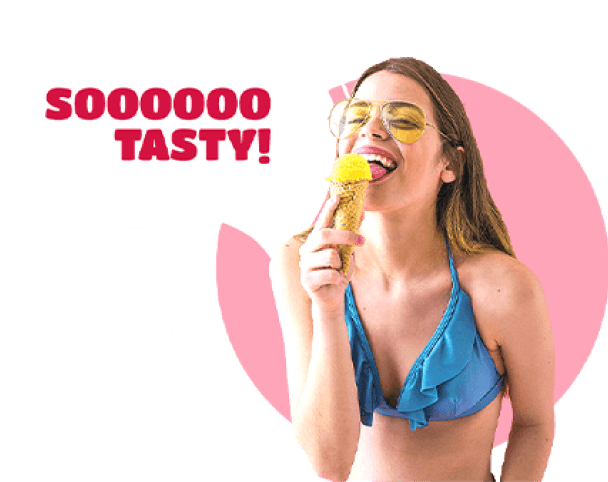
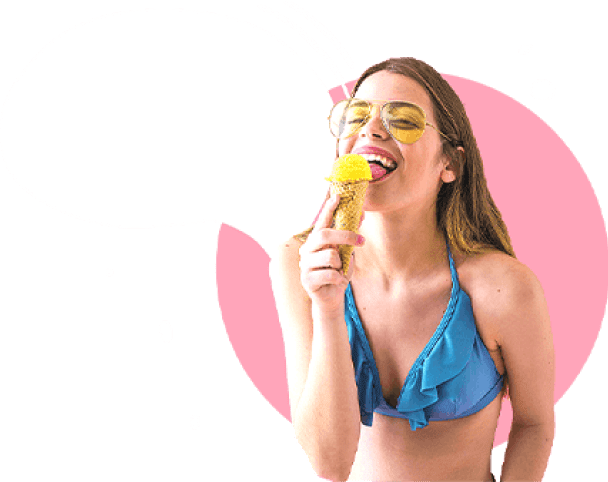
hero-desktop-done

Changed region(s): [[0.0625, 0.1556, 0.4688, 0.3423]]

diff --git a/src/sass/components/_hero.scss b/src/sass/components/_hero.scss
@@ -18,12 +18,15 @@
   @media screen and (min-width: 767.98px) {
     height: 415px;
   }
+
+  // desktop
+  @media screen and (min-width: 1279.98px) {
+    height: 664px;
+  }
 }
 
 .hero-text {
-  width: 218px;
   padding-top: 194px;
-  padding-bottom: 158px;
   position: relative;
   z-index: 3;
 
@@ -39,25 +42,65 @@
       0.04em,
       $primary-text-color
     );
+
     // tablet
     @media screen and (min-width: 767.98px) {
       width: 162px;
       font-size: 22px;
     }
+
+    // desktop
+    @media screen and (min-width: 1279.98px) {
+      width: 277px;
+      margin-bottom: 24px;
+      @include fontTitanOne(
+        $familyTitanOne,
+        38px,
+        null,
+        44px,
+        0.04em,
+        $primary-text-color
+      );
+    }
   }
 
   &--accent {
     @include fontTitanOne(null, 48px, 400, 46px, null, $accent-color, null);
+
     // tablet
     @media screen and (min-width: 767.98px) {
       @include fontTitanOne(null, 34px, null, 31px, null, null, null);
     }
+    // tablet
+    @media screen and (min-width: 1279.98px) {
+      @include fontTitanOne(null, 58px, null, 52px, 0.04em, null, null);
+    }
   }
+
   // tablet
   @media screen and (min-width: 767.98px) {
+    width: 162px;
     padding-top: 101px;
-    padding-bottom: 0px;
-    font-size: 22px;
+  }
+
+  // desktop
+  @media screen and (min-width: 1279.98px) {
+    width: 277px;
+    padding-top: 147px;
+  }
+}
+
+.hero-btn {
+  display: flex;
+  &__item {
+    &:not(:last-child) {
+      margin-right: 8px;
+
+      // desktop
+      @media screen and (min-width: 1279.98px) {
+        margin-right: 12px;
+      }
+    }
   }
 }
 
@@ -73,6 +116,11 @@
     right: 50%;
   }
 
+  // tablet
+  @media screen and (min-width: 1279.98px) {
+    right: 43%;
+  }
+
   &::after {
     content: '';
     display: block;
@@ -85,12 +133,19 @@
     z-index: -1;
     border-radius: 50%;
     transform: translate(-50%, -50%);
+
     // tablet
     @media screen and (min-width: 767.98px) {
       width: 335px;
       height: 333px;
       top: 38%;
       left: 70%;
+    }
+
+    // desktop
+    @media screen and (min-width: 1279.98px) {
+      width: 534px;
+      height: 534px;
     }
   }
 }
@@ -105,6 +160,11 @@
     bottom: 16px;
     z-index: 3;
   }
+
+  // desktop
+  @media screen and (min-width: 1279.98px) {
+    bottom: 60px;
+  }
 }
 
 .hero-milk-info {
@@ -115,6 +175,13 @@
     margin-bottom: 7px;
     @include fontRegular($familyDmSans, 8px, 400, 12px, $primary-text-color);
     text-transform: none;
+
+    // desktop
+    @media screen and (min-width: 1279.98px) {
+      width: 200px;
+      margin-bottom: 20px;
+      @include fontRegular(null, 14px, null, 20px, null);
+    }
   }
 }
 
@@ -142,6 +209,12 @@
       height: 16px;
       background-color: #fff;
       border-radius: 50%;
+
+      // desktop
+      @media screen and (min-width: 1279.98px) {
+        width: 30px;
+        height: 30px;
+      }
     }
   }
 
@@ -155,15 +228,30 @@
       $accent-color,
       left
     );
+
+    // desktop
+    @media screen and (min-width: 1279.98px) {
+      @include fontTitanOne(null, 46px, null, 53px, null, null, null);
+    }
   }
 
   &__subtitle {
     @include fontRegular(null, 8px, 400, 10px, $primary-text-color, right);
+
+    @media screen and (min-width: 1279.98px) {
+      @include fontRegular(null, 14px, null, 18px, null, null);
+    }
   }
 
   // tablet
   @media screen and (min-width: 767.98px) {
     display: block;
+  }
+
+  // desktop
+  @media screen and (min-width: 1279.98px) {
+    right: 16px;
+    top: 153px;
   }
 }
 
@@ -176,10 +264,16 @@
   text-transform: uppercase;
 
   &__item {
-    width: 90px;
+    width: 75px;
     position: absolute;
     top: 25px;
-    left: 3px;
+    left: 10px;
+
+    // desktop
+    @media screen and (min-width: 1279.98px) {
+      width: 132px;
+      top: 40px;
+    }
   }
 
   &__subtitle {
@@ -192,9 +286,28 @@
       $accent-color,
       right
     );
+
+    // desktop
+    @media screen and (min-width: 1279.98px) {
+      @include fontTitanOne(
+        null,
+        23px,
+        null,
+        23px,
+        0.01em,
+        $accent-color,
+        right
+      );
+    }
   }
 
+  // tablet
   @media screen and (min-width: 767.98px) {
     display: block;
+  }
+
+  // desktop
+  @media screen and (min-width: 1279.98px) {
+    right: 16px;
   }
 }

diff --git a/src/partials/hero.html b/src/partials/hero.html
@@ -6,26 +6,39 @@
       <h1 class="hero-text__title">
         ice cream made with <span class="hero-text--accent">passion</span>
       </h1>
-      <a href="#products" class="button button--right-margin">Products</a>
-      <a href="#how_its_made" class="button button--white"> How it’s made? </a>
+      <ul class="hero-btn">
+        <li class="hero-btn__item">
+          <a href="#products" class="button button--right-margin">Products</a>
+        </li>
+        <li class="hero-btn__item">
+          <a href="#how_its_made" class="button button--white">
+            How it’s made?
+          </a>
+        </li>
+      </ul>
     </div>
 
     <!--  milk with text-content -->
     <ul class="hero-milk-list">
       <li>
         <picture>
+          <!-- tablet -->
           <source
             srcset="
               ./images/tablet/tablet-milk.png    1x,
               ./images/tablet/tablet-milk@2x.png 2x
             "
-            media="(min-width:767px)"
+            media="(max-width:1279px)"
           />
-          <img
-            src="./images/tablet/tablet-milk.png"
-            width="152"
-            alt="eco-milk"
+          <!-- desktop -->
+          <source
+            srcset="
+              ./images/desktop/deskstop-milk.png    1x,
+              ./images/desktop/deskstop-milk@2x.png 2x
+            "
+            media="(min-width:1279px)"
           />
+          <img src="./images/tablet/tablet-milk.png" alt="eco-milk" />
         </picture>
       </li>
       <li>
@@ -52,13 +65,23 @@
           "
           media="(max-width:767px)"
         />
+
         <!-- tablet -->
         <source
           srcset="
             ./images/tablet/tablet-ice-cream_hero.png    1x,
             ./images/tablet/tablet-ice-cream_hero@2x.png 2x
           "
-          media="(min-width:767px)"
+          media="(max-width:1279px)"
+        />
+
+        <!-- desktop -->
+        <source
+          srcset="
+            ./images/desktop/deskstop-ice-cream_hero.png    1x,
+            ./images/desktop/deskstop-ice-cream_hero@2x.png 2x
+          "
+          media="(min-width:1279px)"
         />
         <img src="./images/tel/tel-ice-cream_hero.png" alt="ice-cream" />
       </picture>
@@ -80,12 +103,22 @@
     <ul class="cta-img">
       <li>
         <picture>
+          <!-- tablet -->
           <source
             srcset="
               ./images/tablet/tablet-girl1-icecream.png    1x,
               ./images/tablet/tablet-girl1-icecream@2x.png 2x
             "
-            media="(min-width:767px)"
+            media="(max-width:1279px)"
+          />
+
+          <!-- desktop -->
+          <source
+            srcset="
+              ./images/desktop/deskstop-girl-icecream.png    1x,
+              ./images/desktop/deskstop-girl-icecream@2x.png 2x
+            "
+            media="(min-width:1279px)"
           />
           <img
             src="./images/tablet/tablet-girl1-icecream.png"
@@ -96,7 +129,7 @@
       <li
         class="cta-img__item animate__animated animate__tada animate__delay-1s animate__repeat-3"
       >
-        <p class="cta-img__subtitle">sooooooo tasty!</p>
+        <p class="cta-img__subtitle">soooooo tasty!</p>
       </li>
     </ul>
   </div>

diff --git a/src/sass/base/_button.scss b/src/sass/base/_button.scss
@@ -1,14 +1,13 @@
 // hero links (not <button>)
 .button {
   @include centeredFlex(inline-flex);
+  @include fontRegular(null, 8px, 400, 10px, #ffffff, null);
+  @include transition(background-color);
   height: 24px;
   padding-left: 15px;
   padding-right: 15px;
   padding-bottom: 0;
   padding-top: 0;
-  @include fontRegular(null, 8px, 400, 10px, #ffffff, null);
-  @include transition(background-color);
-
   border-radius: 20px;
   background-color: $heroButtonDarkPink;
 
@@ -25,6 +24,12 @@
   &--white:hover,
   &--white:focus {
     background-color: $btn-hover-bck;
+  }
+
+  // desktop
+  @media screen and (min-width: 1279.98px) {
+    height: 40px;
+    @include fontRegular(null, 14px, 400, 18px, null, null);
   }
 }
 
@@ -47,10 +52,22 @@
   &--hero {
     width: 18px;
     height: 18px;
+
+    // desktop
+    @media screen and (min-width: 1279.98px) {
+      width: 26px;
+      height: 26px;
+    }
   }
 
   &__hero-svg {
     width: 6px;
     height: 6px;
+
+    // desktop
+    @media screen and (min-width: 1279.98px) {
+      width: 10px;
+      height: 10px;
+    }
   }
 }
